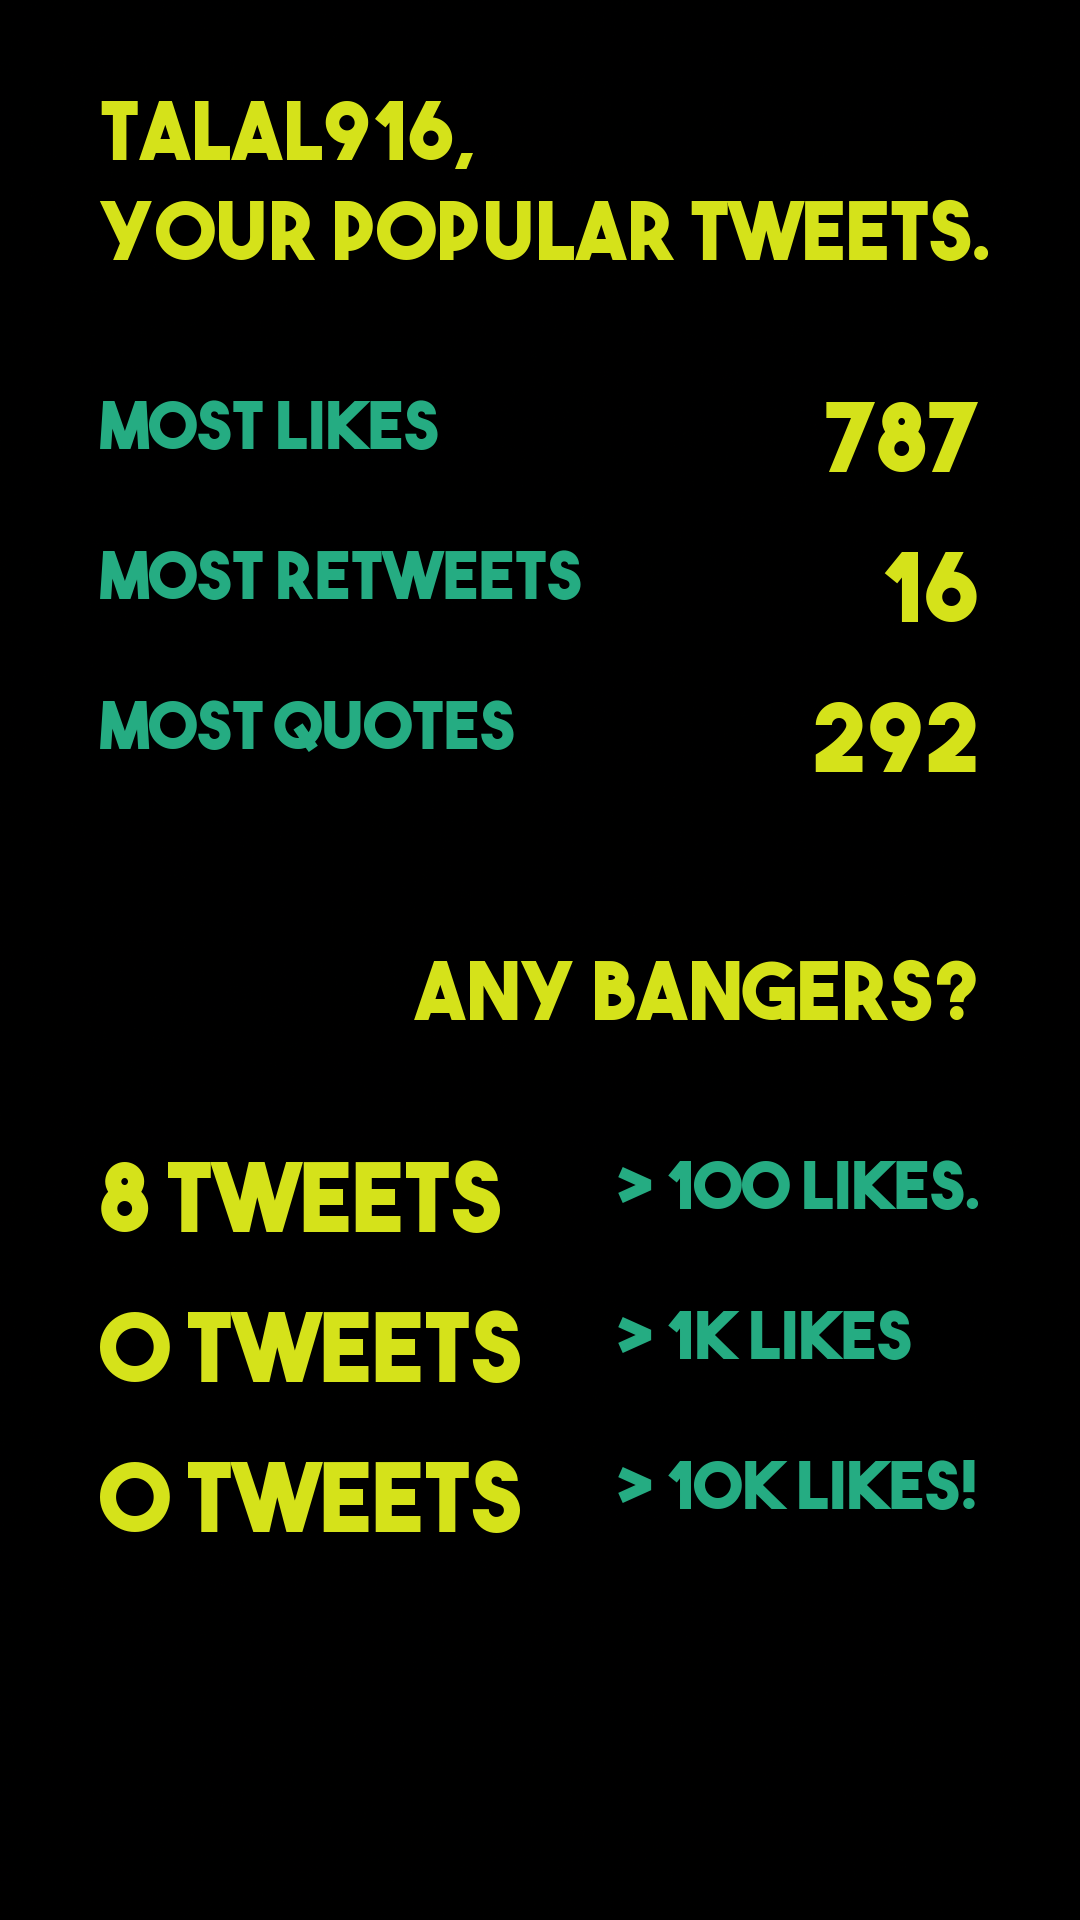
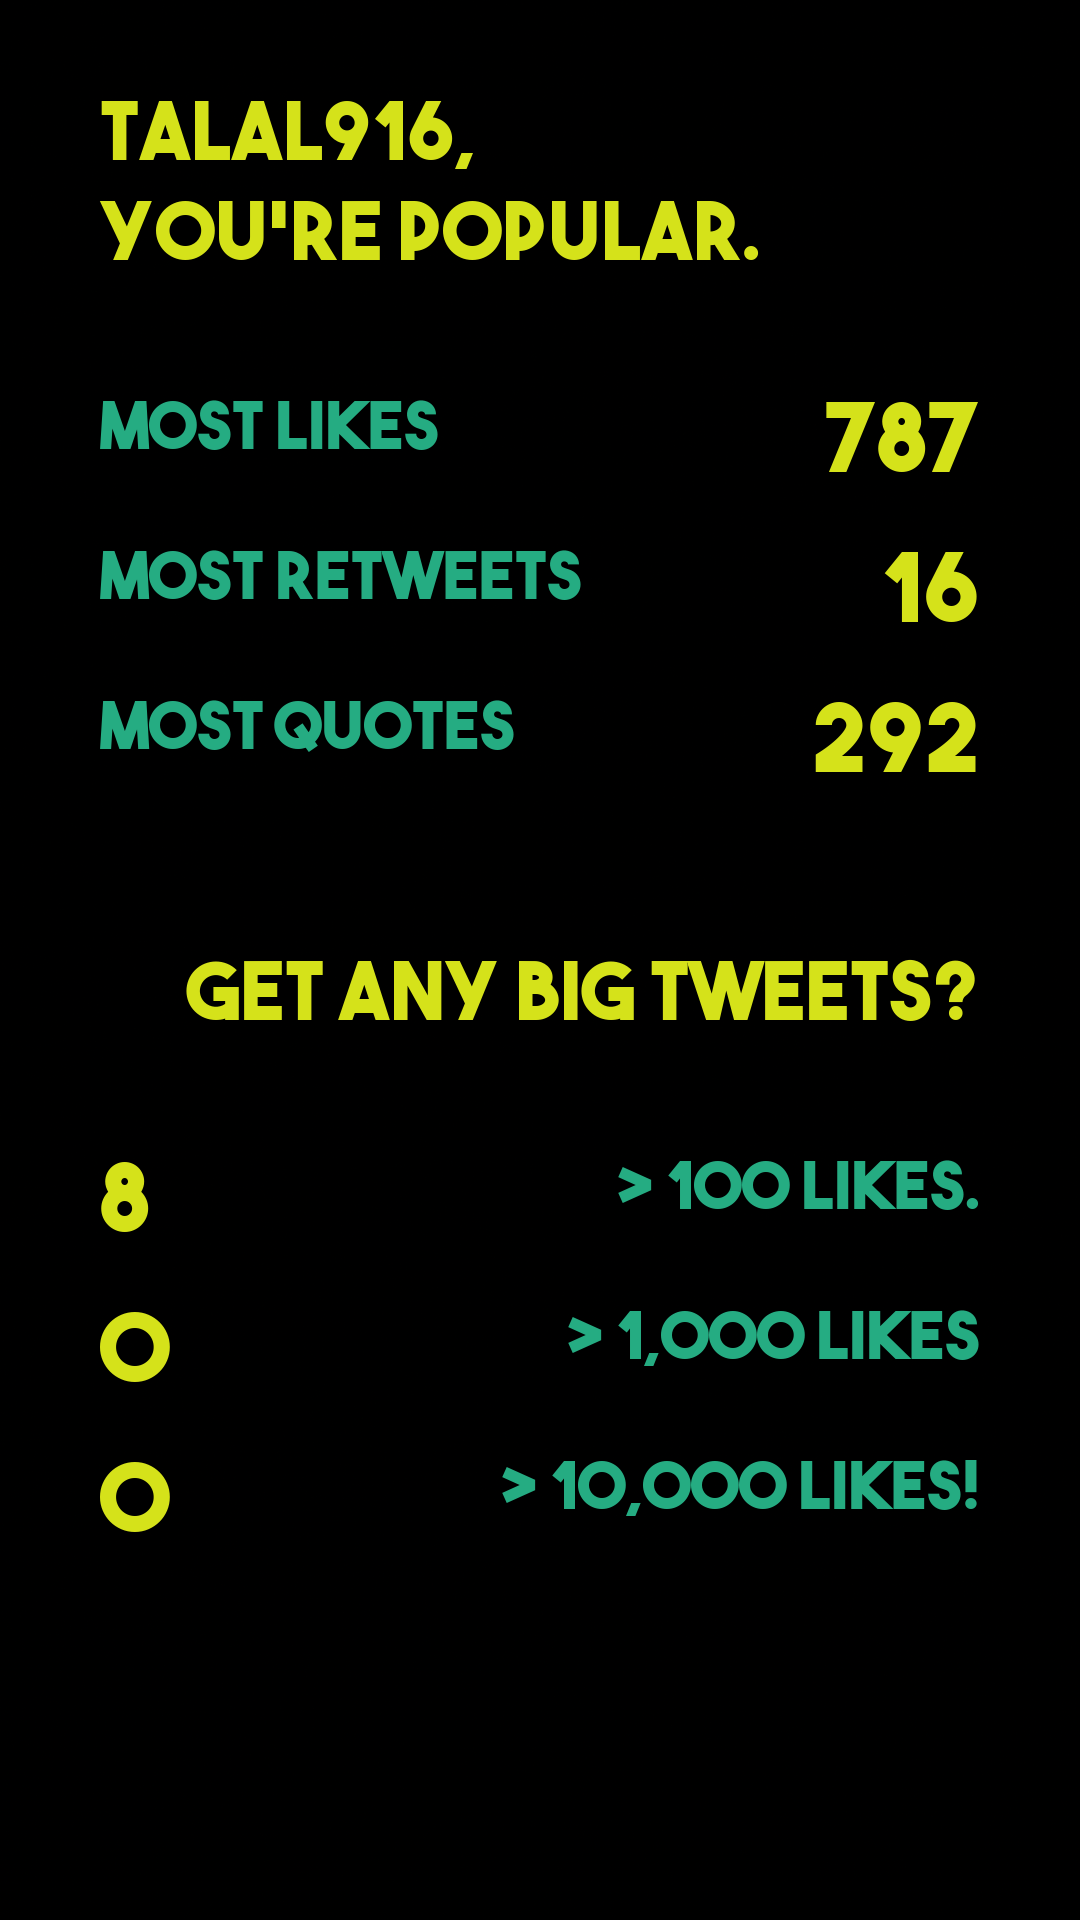
Text update

diff --git a/tweepy_twitter.py b/tweepy_twitter.py
@@ -273,16 +273,17 @@ def highest_metrics_image(username,
     spacer = 100
     
     # Content
-    title_text = [username + ",", "Your Popular Tweets."]
+    title_text = [username + ",", "You're popular."]
     
     metrics_text = ["Most Likes", "Most Retweets", "Most Quotes"]
     metrics_values = [str(most_likes), str(most_retweets), str(most_quotes)]
     
     # lp = 'likes performance'
-    lp_title_text = ["Any Bangers?"]
+    lp_title_text = ["Get Any Big Tweets?"]
     
-    lp_text = ["> 100 likes.", "> 1k likes", "> 10k likes!"]
-    lp_values = [str(likes_performance[100]) + " Tweets", str(likes_performance[1000]) + " Tweets", str(likes_performance[10000]) + " Tweets"]
+    lp_text = ["> 100 likes.", "> 1,000 likes", "> 10,000 likes!"]
+    lp_values = [str(likes_performance[100]), str(likes_performance[1000]), str(likes_performance[10000])]
+    #lp_values = [str(likes_performance[100]) + " Tweets", str(likes_performance[1000]) + " Tweets", str(likes_performance[10000]) + " Tweets"]
   
     # Draw title
     draw.text((x_pos, y_pos), title_text[0], font_colour["title"], font = font["title"])
@@ -328,7 +329,11 @@ def highest_metrics_image(username,
     # Draw lp text
     temp_x_pos = image_width - x_pos - txt_width_0
     draw.text((temp_x_pos, y_pos + spacer*2), lp_text[0], font_colour["text"], font = font["text"])
+    
+    temp_x_pos = image_width - x_pos - txt_width_1
     draw.text((temp_x_pos, y_pos + spacer*3.5), lp_text[1], font_colour["text"], font = font["text"])
+    
+    temp_x_pos = image_width - x_pos - txt_width_2
     draw.text((temp_x_pos, y_pos + spacer*5), lp_text[2], font_colour["text"], font = font["text"])
     
     # Draw lp values
